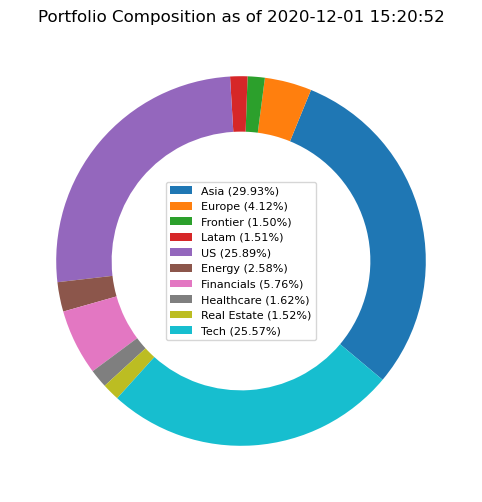
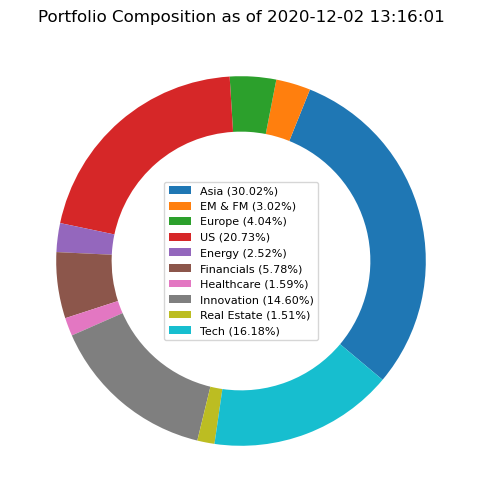
Add files via upload

diff --git a/viz.py b/viz.py
@@ -72,7 +72,7 @@ def DisplaySummary():
     print ('> FSM HK: \t\t' + '{:,.2%}'.format(ar_fsmhk['AnnualisedReturn']))
     print ('> FSM SG: \t\t' + '{:,.2%}'.format(ar_fsmsg['AnnualisedReturn']))
     print ('')
-    print ('*** BUGGED *** Performance of Yahoo Finance supported instruments (money-weighted):')
+    print ('*** BUGGED (need to include b/f) *** Performance of Yahoo Finance supported instruments (money-weighted):')
     print ('> YTD: \t\t' + '{:,.2%}'.format(ar_etf))
     print ('> 1W:  \t\t' + '{:,.2%}'.format(ar_etf_1W))
     print ('> 1M:  \t\t' + '{:,.2%}'.format(ar_etf_1M))
@@ -105,7 +105,7 @@ def DisplaySummary():
     plt.show()
 
 
-    # 2020-12-01: plot donut chart
+    # 2020-12-01: plot donut chart by category
     labels_with_pct = []
     for i in range(len(labels)):
         labels_with_pct.append(labels[i][1:] + ' (%s)' % '{:,.2%}'.format(sizes[i]))
@@ -129,7 +129,47 @@ def DisplaySummary():
     #plt.legend(wedges, labels_with_pct, loc='center', bbox_to_anchor=(-0.1, 1.), fontsize=8)
     plt.legend(wedges, labels_with_pct, loc='center', fontsize=8)
     plt.show()
+    
+    PlotPortfolioComposition('SecurityCcy')
+    PlotPortfolioComposition('SecurityType')
 
+
+# 2020-12-02: plot donut chart by security currency
+def PlotPortfolioComposition(by='SecurityCcy'):
+    #by='SecurityType'
+    if by=='SecurityCcy':
+        title = 'Currency Exposure'
+    elif by=='SecurityType':
+        title = 'Asset Allocation'
+    title = title + ' as of %s' % datetime.datetime.strftime(datetime.datetime.today(), '%Y-%m-%d %H:%M:%S')
+    
+    pcr = GetPortfolioComposition()
+    pct = pcr.groupby(by).agg({'CurrentValueInHKD':'sum'})
+    pct.reset_index(inplace=True)
+    total = pct.CurrentValueInHKD.sum()
+    pct['Percentage'] = pct['CurrentValueInHKD']/pct.CurrentValueInHKD.sum()
+    
+    categories = pct[by]
+    values = pct.Percentage
+    categories_with_pct = []
+    for i in range(len(categories)):
+        categories_with_pct.append(categories[i] + ' (%s)' % '{:,.2%}'.format(values[i]))
+    fig, ax = plt.subplots(figsize=(12, 6), subplot_kw=dict(aspect="equal"))
+    wedges, texts = ax.pie(values, wedgeprops=dict(width=0.3), startangle=-40)
+    #bbox_props = dict(boxstyle="square,pad=0.3", fc="w", ec="k", lw=0.72)
+    bbox_props = dict(boxstyle="square,pad=0.3", fc="w", ec="k", lw=0.5)
+    kw = dict(arrowprops=dict(arrowstyle="-"), bbox=bbox_props, zorder=0, va="center")
+    for i, p in enumerate(wedges):
+        ang = (p.theta2 - p.theta1)/2. + p.theta1
+        y = np.sin(np.deg2rad(ang))
+        x = np.cos(np.deg2rad(ang))
+        horizontalalignment = {-1: "right", 1: "left"}[int(np.sign(x))]
+        connectionstyle = "angle,angleA=0,angleB={}".format(ang)
+        kw["arrowprops"].update({"connectionstyle": connectionstyle})
+        ax.annotate(categories_with_pct[i], xy=(x, y), xytext=(1*np.sign(x), 1.1*y),horizontalalignment=horizontalalignment, **kw, fontsize=10)
+    ax.set_title(title)
+    #plt.legend(wedges, categories_with_pct, loc='center', fontsize=8)
+    plt.show()
 
 # plot line of costs for US ETF portfolio
 def PlotCostvsVal():
@@ -183,7 +223,7 @@ def PlotCostvsVal():
 
     # add annotation: 24 Nov 2020 took profit from Airlines, reinvested in Tech
     x2_pos = x2[x2 == datetime.datetime(2020, 11, 24)].index
-    ax.annotate('Took profit from Airlines, reinvested in Tech',
+    ax.annotate('Took profit from Airlines, reinvested in Innovation',
                 xy=('2020-11-24', y2.iloc[x2_pos]),
                 xytext=(-275, 0),
                 textcoords='offset points', color='gray',

diff --git a/calc.py b/calc.py
@@ -201,6 +201,11 @@ def GetPortfolioSummary():
 
     ps['PnLPct'] = ps.PnL / ps.CostInPlatformCcy
 
+    # added 2 Dec 2020    
+    sec = sec[['BBGCode','AssetType','Currency']]
+    sec.rename(columns={'AssetType':'SecurityType','Currency':'SecurityCcy'}, inplace=True)
+    ps = ps.merge(sec, how='left', left_on='BBGCode', right_on='BBGCode')
+
     # export Portfolio Summary for later use
     ps.to_csv('PortfolioSummary.csv', index=False)
     UploadLatestPortfolioSummary(ps)
@@ -295,16 +300,15 @@ def GetPnLUnrealised():
 
 
 def GetPortfolioComposition(target_ccy='HKD'):
-    PnLByPlatformAndAccount = GetPnLUnrealised()['PnLByPlatformAndAccount']
-    pcr = PnLByPlatformAndAccount.reset_index()
+    #PnLByPlatformAndAccount = GetPnLUnrealised()['PnLByPlatformAndAccount']
+    #pcr = PnLByPlatformAndAccount.reset_index()
+    pcr = ps.copy()
     for i in range(len(pcr)):
         row = pcr.loc[i]
-        
         # get HKD equivalent amount
         ccy = row.PlatformCurrency
         value_ccy = row.CurrentValue
         pcr.loc[i, 'CurrentValueInHKD'] = ConvertTo(target_ccy, ccy, value_ccy)
-        
         # get Category
         sec_name = row.Name
         pcr.loc[i, 'Category'] = _GetSecurityCategory(sec_name)
@@ -697,6 +701,29 @@ def CalcIRR(platform=None, bbgcode=None, period=None):
         df = df[df.Platform==platform]
     if bbgcode is not None:
         df = df[df.BBGCode==bbgcode]
+
+
+
+
+
+
+    # start date as 1 Jan 2020 (HARDCODED)
+    start_date = datetime.datetime(2020,1,1)
+    df = df[df.Date>start_date]
+    # need to add balance brought forward
+    # add cost of existing holding
+    # add valuation of existing holdings even if no trading in the year
+
+
+
+
+
+
+
+
+
+
+
 
     # filter on date range for the transactions / cashflows
     if period is not None:
